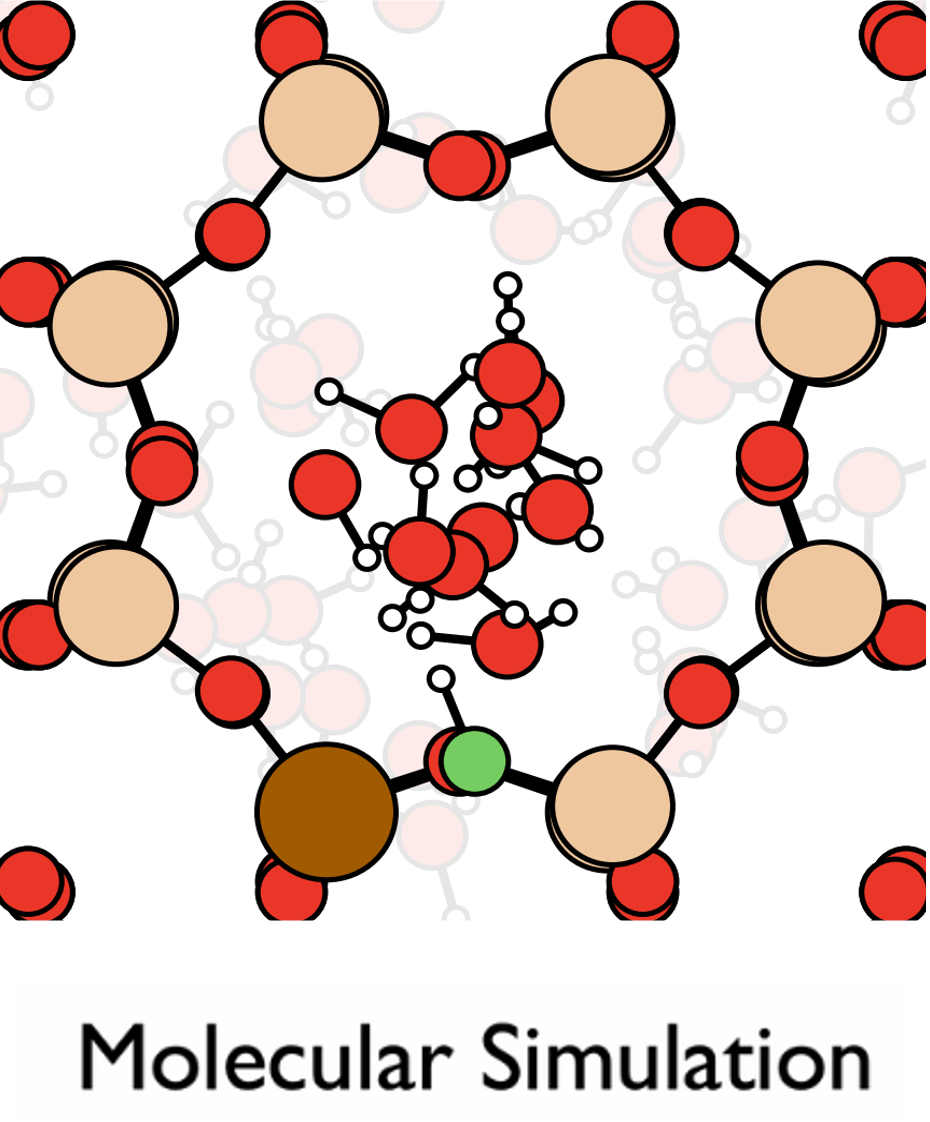
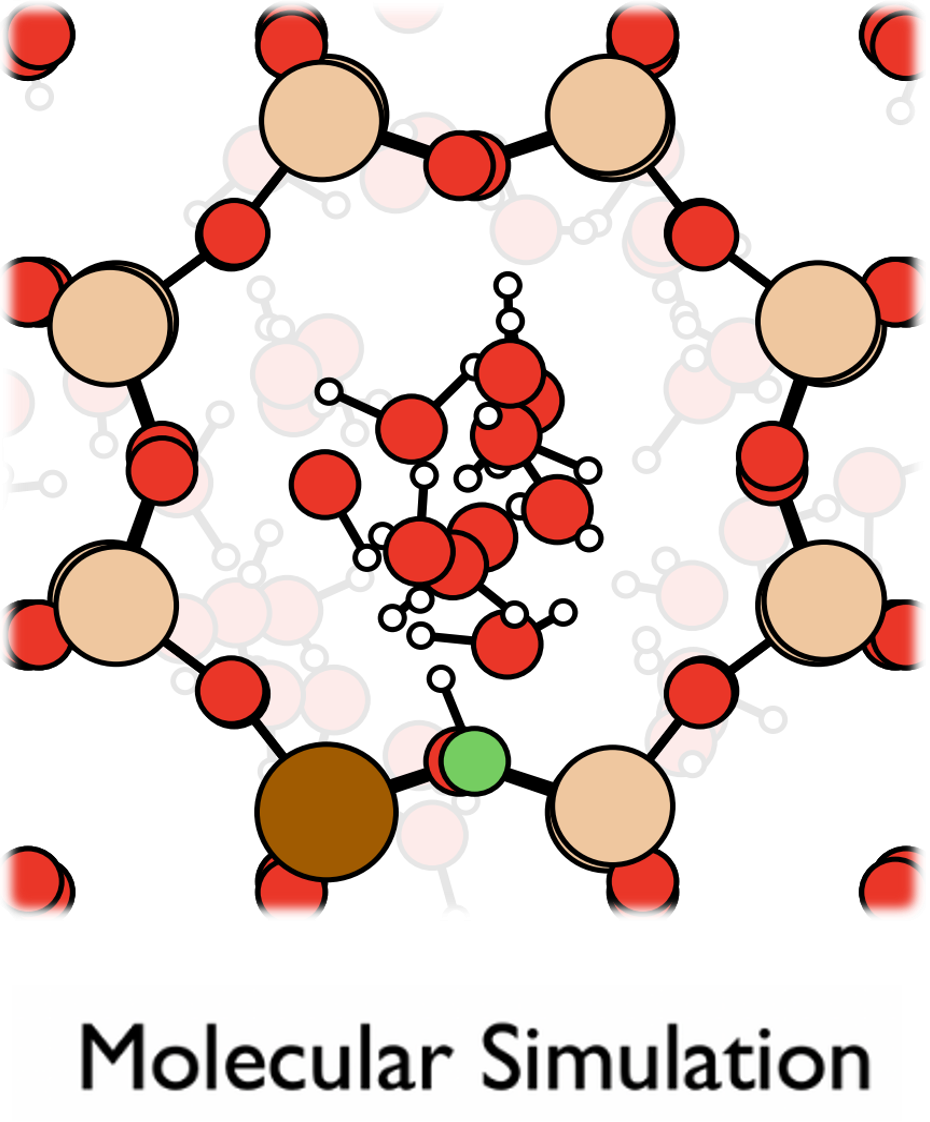
research page

diff --git a/_layouts/research.html b/_layouts/research.html
@@ -7,7 +7,7 @@
       <img class="img-fluid mx-auto d-block" src="/static/img/research/QC.png">
     </div>
     <div class="col-sm-4 offset-1">
-      <img class="img-fluid mx-auto d-block" src="/static/img/research/MC.gif">
+      <img class="img-fluid mx-auto d-block" src="/static/img/research/MC.png">
     </div>
     <div class="col-sm-4 offset-1">
       <img class="img-fluid mx-auto d-block" src="/static/img/research/ML.png">
